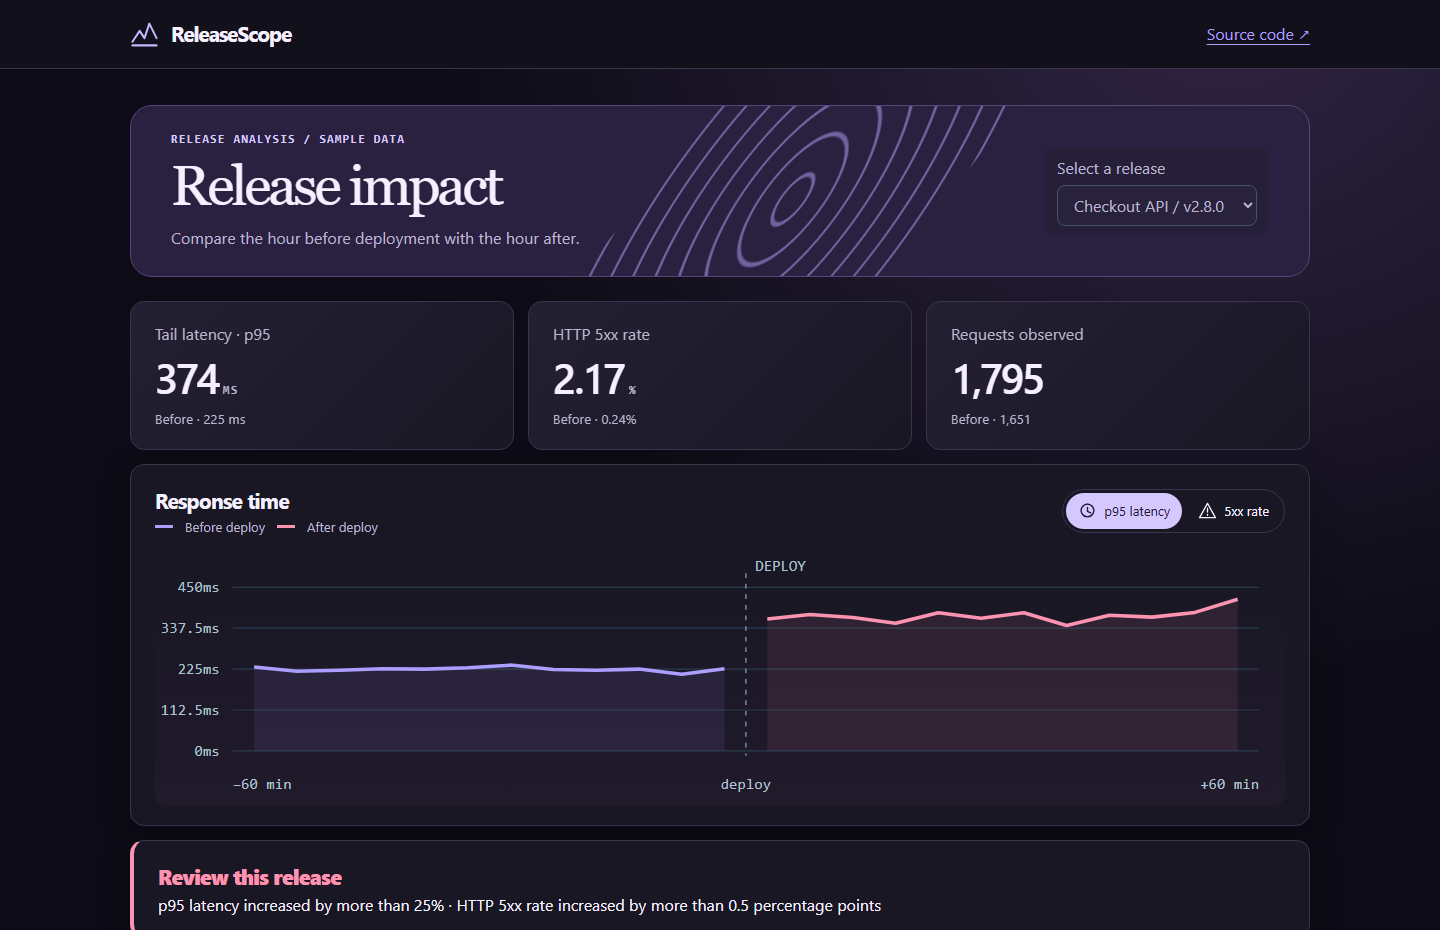
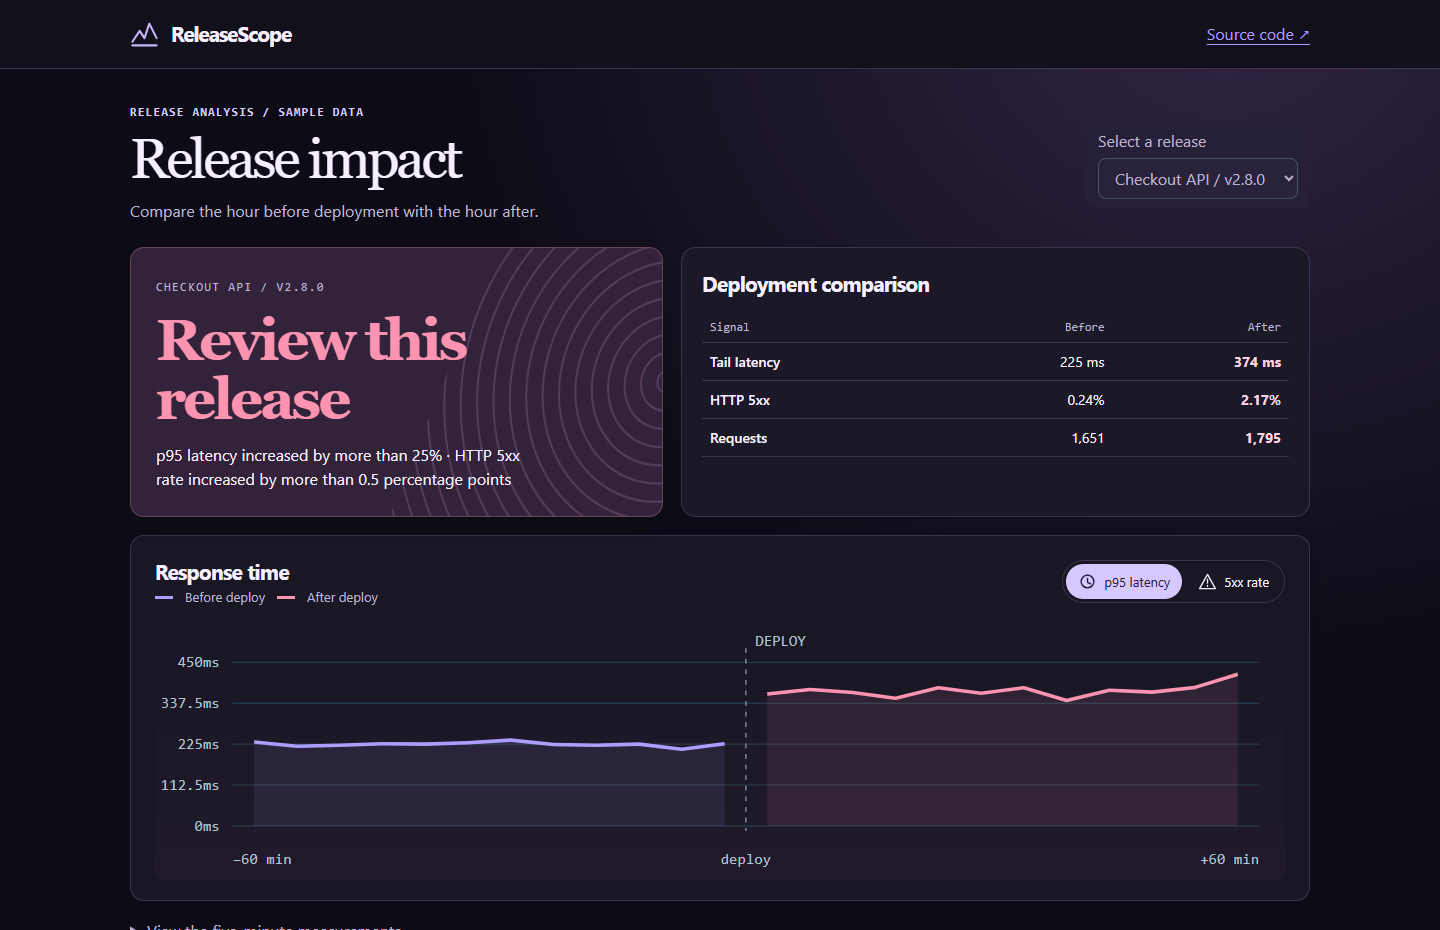
Lead release reports with a verdict and before-after comparison

diff --git a/index.html b/index.html
@@ -15,12 +15,10 @@ button:active:not(:disabled){transform:translateY(1px)}
 }
 
 :root{--bg:#0d0c16;--panel:#191724;--line:#3a344c;--text:#f5efff;--muted:#bdb5d0}body{background:radial-gradient(ellipse at 85% 0%,#302443 0,transparent 45%),var(--bg)}header{background:#12101a}nav,main{width:min(1180px,92%)}.brand .glyph{color:#c7b5ff}main>.row{isolation:isolate;position:relative;overflow:hidden;padding:26px clamp(16px,3vw,40px);min-height:152px;border:1px solid #554578;border-radius:22px;background:#29213f}main>.row:before{content:"";position:absolute;z-index:-1;top:-150%;left:46%;width:240px;height:410%;transform:rotate(38deg);background:repeating-radial-gradient(ellipse at 50% 50%,transparent 0 9px,#b198f08a 10px 11px,transparent 12px 17px)}.picker{background:#251f38;padding:8px 12px;border-radius:9px}.eyebrow{color:#d6c9ff}h1{font-family:Georgia,serif;font-weight:500;letter-spacing:-.055em}.cards article{background:linear-gradient(135deg,#242033,#191724)}.cards strong{font-weight:530}.switch{padding:3px;border:1px solid var(--line);border-radius:22px}.switch button{border:0;border-radius:18px;background:transparent}.switch button[aria-pressed=true]{background:#d5c8ff;color:#24183b}select{background:#28223a}.panel{box-shadow:0 8px 30px #08061040}.chart{background:linear-gradient(transparent,#201a2b);border-radius:9px}@media(max-width:680px){main>.row:before{left:76%;opacity:.5}.picker{width:100%}}
-</style></head><body>
+</style><style>main>.row{background:none;border:0;padding:0;min-height:0;margin-bottom:24px;overflow:visible}main>.row:before{display:none}.release-report{display:grid;grid-template-columns:1fr 1.18fr;gap:18px;margin-bottom:18px}.release-report .decision{margin:0;isolation:isolate;overflow:hidden;position:relative;background:#32223a;padding:25px;border:1px solid #674557}.decision:after{content:"";position:absolute;z-index:-1;inset:-40% -40% -40% 62%;transform:rotate(22deg);background:repeating-radial-gradient(ellipse at 50% 50%,transparent 0 8px,#a67aa848 9px 10px,transparent 11px 16px)}.decision.pass{background:#292640}.decision h2{font:500 clamp(34px,4vw,60px)/1.02 Georgia,serif;letter-spacing:-.05em;margin:14px 0}.decision small{text-transform:uppercase;letter-spacing:.12em;font:12px monospace}.decision p{max-width:45ch}.comparison{background:#1b1928;border:1px solid var(--line);border-radius:15px;padding:20px}.comparison h2{margin-bottom:12px}.comparison td,.comparison th{font-variant-numeric:tabular-nums}.comparison td:last-child{color:#ffd0df}.comparison th{font-weight:500}.comparison td,.comparison th:not(:first-child){text-align:right}.comparison thead th{color:var(--muted);font:12px monospace}.panel .chart{margin-top:20px}@media(max-width:720px){.release-report{grid-template-columns:1fr}.comparison{padding:14px}}</style></head><body>
 <header><nav><div class="brand"><svg class="glyph" aria-hidden="true" viewBox="0 0 24 24" fill="none" stroke="currentColor" stroke-width="1.7" stroke-linecap="round" stroke-linejoin="round"><path d="M2 18l6-9 4 6 4-12 6 12 M2 21h20"/></svg>ReleaseScope</div><a href="https://github.com/mohamadmirzaei79/ReleaseScope">Source code ↗</a></nav></header>
 <main><div class="row"><div><div class="eyebrow">Release analysis / sample data</div><h1>Release impact</h1><p class="intro muted">Compare the hour before deployment with the hour after.</p></div><label class="picker">Select a release<select id="release"></select></label></div>
-<div id="status" role="status"></div><section class="cards" id="metrics" aria-label="Post-deployment metrics"></section>
-<section class="panel"><div class="row"><div><h2 id="chartTitle">Response time</h2><div class="legend"><i class="key"></i>Before deploy <i class="key after"></i>After deploy</div></div><div class="switch" aria-label="Chart metric"><button data-kind="p95_ms" aria-pressed="true"><svg class="glyph" aria-hidden="true" viewBox="0 0 24 24" fill="none" stroke="currentColor" stroke-width="1.7" stroke-linecap="round" stroke-linejoin="round"><path d="M12 4a8 8 0 1 1-.01 0 M12 8v5l4 2"/></svg>p95 latency</button><button data-kind="error_pct" aria-pressed="false"><svg class="glyph" aria-hidden="true" viewBox="0 0 24 24" fill="none" stroke="currentColor" stroke-width="1.7" stroke-linecap="round" stroke-linejoin="round"><path d="M12 3 2 21h20z M12 9v5 M12 17v1"/></svg>5xx rate</button></div></div><svg id="plot" class="chart" viewBox="0 0 960 215" role="img" aria-labelledby="chartTitle chartDesc"></svg></section>
-<section class="panel decision" id="decision" aria-live="polite"></section>
+<div id="status" role="status"></div><div class="release-report"><section class="panel decision" id="decision" aria-live="polite"></section><section class="comparison"><h2>Deployment comparison</h2><div id="metrics"></div></section></div><section class="panel"><div class="row"><div><h2 id="chartTitle">Response time</h2><div class="legend"><i class="key"></i>Before deploy <i class="key after"></i>After deploy</div></div><div class="switch" aria-label="Chart metric"><button data-kind="p95_ms" aria-pressed="true"><svg class="glyph" aria-hidden="true" viewBox="0 0 24 24" fill="none" stroke="currentColor" stroke-width="1.7" stroke-linecap="round" stroke-linejoin="round"><path d="M12 4a8 8 0 1 1-.01 0 M12 8v5l4 2"/></svg>p95 latency</button><button data-kind="error_pct" aria-pressed="false"><svg class="glyph" aria-hidden="true" viewBox="0 0 24 24" fill="none" stroke="currentColor" stroke-width="1.7" stroke-linecap="round" stroke-linejoin="round"><path d="M12 3 2 21h20z M12 9v5 M12 17v1"/></svg>5xx rate</button></div></div><svg id="plot" class="chart" viewBox="0 0 960 215" role="img" aria-labelledby="chartTitle chartDesc"></svg></section>
 <details><summary>View the five-minute measurements</summary><table><thead><tr><th>Window start</th><th>Requests</th><th>p95</th><th>5xx rate</th></tr></thead><tbody id="rows"></tbody></table></details><footer>Deterministic sample traffic · Five-minute buckets · All comparisons use the full request windows.</footer></main>
 <script>
 const el=id=>document.getElementById(id);
@@ -47,15 +45,15 @@ function drawChart(data,step){
 }
 function render(){
   const r=releases[Number(el('release').value)], b=r.before,a=r.after;
-  const card=(name,val,unit,prior)=>'<article><span class="muted">'+name+'</span><strong>'+val+'<span class="unit">'+unit+'</span></strong><small>Before · '+prior+'</small></article>';
-  el('metrics').innerHTML=card('Tail latency · p95',a.p95_ms,'ms',b.p95_ms+' ms')+card('HTTP 5xx rate',a.error_pct.toFixed(2),'%',b.error_pct.toFixed(2)+'%')+card('Requests observed',fmt.format(a.requests),'',fmt.format(b.requests));
+  const pair=(label,before,after,unit)=>'<tr><th scope="row">'+label+'</th><td>'+before+unit+'</td><td><b>'+after+unit+'</b></td></tr>';
+  el('metrics').innerHTML='<table><thead><tr><th>Signal</th><th>Before</th><th>After</th></tr></thead><tbody>'+pair('Tail latency',b.p95_ms,a.p95_ms,' ms')+pair('HTTP 5xx',b.error_pct.toFixed(2),a.error_pct.toFixed(2),'%')+pair('Requests',fmt.format(b.requests),fmt.format(a.requests),'')+'</tbody></table>';
   el('chartTitle').textContent=metric==='p95_ms'?'Response time':'Server error rate';
   drawChart(r.buckets,step);
   el('decision').className='panel decision '+(r.verdict==='Pass'?'pass':'');
   const heading=document.createElement('h2'), verdict=document.createElement('strong'), detail=document.createElement('p');
   verdict.textContent=r.verdict==='Pass'?'Within thresholds':'Review this release'; heading.append(verdict);
   detail.textContent=r.reasons.length?r.reasons.join(' · '):'Both p95 latency and the 5xx rate stayed within the configured regression thresholds.';
-  el('decision').replaceChildren(heading,detail);
+  const label=document.createElement('small');label.textContent=r.service+' / v'+r.version;el('decision').replaceChildren(label,heading,detail);
   el('rows').innerHTML=r.buckets.map((v,i)=>'<tr><td>'+((i-r.buckets.length/2)*step)+' min</td><td>'+v.requests+'</td><td>'+v.p95_ms+' ms</td><td>'+v.error_pct.toFixed(2)+'%</td></tr>').join('');
 }
 let step;
